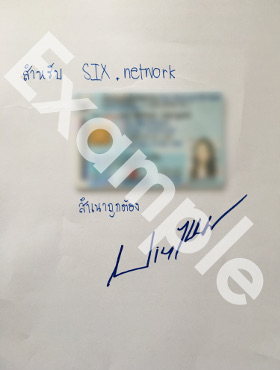
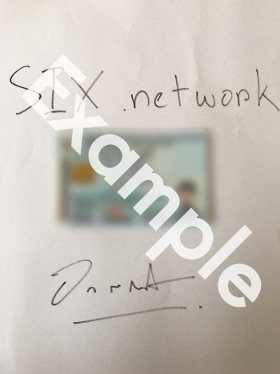
hotfix p bo photo and error style when signup and signin

diff --git a/public/javascripts/login.js b/public/javascripts/login.js
@@ -43,7 +43,9 @@ function setEnable (doms) {
 
 // Login function using in Login page to authorize user with email and password and also check verified status
 function login () {
-  $('#signInAlert').removeClass('show-alert')
+  if ($('#signInAlert').css('display') == 'block') {
+    $('#signInAlert').slideToggle()
+  }
   let emailDOM = document.getElementById('signInEmail')
   let passwordDOM = document.getElementById('signInPassword')
   let btnDOM = document.getElementById('signInBtn')
@@ -58,7 +60,9 @@ function login () {
       } else {
         $('#signInAlertText').html(err.message)
       }
-      $('#signInAlert').addClass('show-alert')
+      if ($('#signInAlert').css('display') == 'none') {
+        $('#signInAlert').slideToggle()
+      }
       setEnable([emailDOM, passwordDOM, btnDOM])
     })
 }
@@ -71,6 +75,17 @@ function lockSigninForm () {
   setDisable([emailDOM, passwordDOM, btnDOM])
 }
 
+function lockSignupForm () {
+  let emailDOM = document.getElementById('signUpEmail')
+  let firstNameDOM = document.getElementById('signUpFirstName')
+  let lastNameDOM = document.getElementById('signUpLastName')
+  let phoneNumberDOM = document.getElementById('signUpPhoneNumber')
+  let passwordDOM = document.getElementById('signUpPassword')
+  let countryDOM = document.getElementById('signUpCountry')
+  let btnDOM = document.getElementById('signUpBtn')
+  setDisable([emailDOM, firstNameDOM, lastNameDOM, phoneNumberDOM, passwordDOM, btnDOM, countryDOM])
+}
+
 // Unlock signin form after authorize using socialmedia
 function unlockSigninForm () {
   let emailDOM = document.getElementById('signInEmail')
@@ -79,9 +94,22 @@ function unlockSigninForm () {
   setEnable([emailDOM, passwordDOM, btnDOM])
 }
 
+function unlockSignupForm () {
+  let emailDOM = document.getElementById('signUpEmail')
+  let firstNameDOM = document.getElementById('signUpFirstName')
+  let lastNameDOM = document.getElementById('signUpLastName')
+  let phoneNumberDOM = document.getElementById('signUpPhoneNumber')
+  let passwordDOM = document.getElementById('signUpPassword')
+  let countryDOM = document.getElementById('signUpCountry')
+  let btnDOM = document.getElementById('signUpBtn')
+  setEnable([emailDOM, firstNameDOM, lastNameDOM, phoneNumberDOM, passwordDOM, btnDOM, countryDOM])
+}
+
 // Sign up function using in Login page to register user with email and password
 function signUp () {
-  $('#signUpAlert').removeClass('show-alert')
+  if ($('#signUpAlert').css('display') == 'block') {
+    $('#signUpAlert').slideToggle()
+  }
   let emailDOM = document.getElementById('signUpEmail')
   let firstNameDOM = document.getElementById('signUpFirstName')
   let lastNameDOM = document.getElementById('signUpLastName')
@@ -95,12 +123,14 @@ function signUp () {
   const phone_number_temp = phoneNumberDOM.value
   const password = passwordDOM.value
   const country = countryDOM.value
-  setDisable([emailDOM, firstNameDOM, lastNameDOM, phoneNumberDOM, passwordDOM, btnDOM, countryDOM])
+  lockSignupForm()
   const parseData = libphonenumber.parse(phone_number_temp, country, {extended: true })
   if (parseData.valid === false) {
     $('#signUpAlertText').html("Invalid phone number format")
-    $('#signUpAlert').addClass('show-alert')
-    setEnable([emailDOM, firstNameDOM, lastNameDOM, phoneNumberDOM, passwordDOM, btnDOM, countryDOM])
+    if ($('#signUpAlert').css('display') == 'none') {
+      $('#signUpAlert').slideToggle()
+    }
+    unlockSignupForm()
     return false
   }
   const phone_number = '+'+parseData.countryCallingCode+parseData.phone
@@ -126,8 +156,10 @@ function signUp () {
           stopRedirection = false
           console.log(err)
           $('#signUpAlertText').html(err.message)
-          $('#signUpAlert').addClass('show-alert')
-          setEnable([emailDOM, firstNameDOM, lastNameDOM, phoneNumberDOM, passwordDOM, btnDOM, countryDOM])
+          if ($('#signUpAlert').css('display') == 'none') {
+            $('#signUpAlert').slideToggle()
+          }
+          unlockSignupForm()
         })
     })
     .catch(err => {
@@ -135,14 +167,26 @@ function signUp () {
       stopRedirection = false
       console.log(err)
       $('#signUpAlertText').html(err.message)
-      $('#signUpAlert').addClass('show-alert')
-      setEnable([emailDOM, firstNameDOM, lastNameDOM, phoneNumberDOM, passwordDOM, btnDOM, countryDOM])
+      if ($('#signUpAlert').css('display') == 'none') {
+        $('#signUpAlert').slideToggle()
+      }
+      unlockSignupForm()
     })
 }
 
 // AuthFacebook function using in Login page for authorize user's facebook account
-function authFacebook () {
-  $('#signInAlert').removeClass('show-alert')
+function authFacebook() {
+  facebookLoginFunction($('#signInAlert'), $('#signInAlertText'), lockSigninForm, unlockSigninForm)
+}
+
+function authFacebookS() {
+  facebookLoginFunction($('#signUpAlert'), $('#signUpAlertText'), lockSignupForm, unlockSignupForm)
+}
+
+function facebookLoginFunction(alertObject, textObject, lockfunction, unlockfunction) {
+  if (alertObject.css('display') == 'block') {
+    alertObject.slideToggle()
+  }
   let provider = new firebase.auth.FacebookAuthProvider()
   provider.addScope('email')
   firebase.auth().languageCode = 'en_EN'
@@ -150,7 +194,7 @@ function authFacebook () {
     'display': 'popup'
   })
   stopRedirection = true
-  lockSigninForm()
+  lockfunction()
   return firebase.auth().signInWithPopup(provider)
     .then(res => {
       const {uid} = res.user
@@ -169,9 +213,11 @@ function authFacebook () {
               .catch((err) => {
                 firebase.auth().signOut()
                 stopRedirection = false
-                $('#signInAlertText').html(err.message)
-                $('#signInAlert').addClass('show-alert')
-                unlockSigninForm()
+                textObject.html(err.message)
+                if (alertObject.css('display') == 'none') {
+                  alertObject.slideToggle()
+                }
+                unlockfunction()
                 console.log('Authorize Facebook : error : ', err)
               })
           } else {
@@ -182,30 +228,44 @@ function authFacebook () {
         .catch((err) => {
           firebase.auth().signOut()
           stopRedirection = false
-          $('#signInAlertText').html(err.message)
-          $('#signInAlert').addClass('show-alert')
-          unlockSigninForm()
+          textObject.html(err.message)
+          if (alertObject.css('display') == 'none') {
+            alertObject.slideToggle()
+          }
+          unlockfunction()
           console.log('Authorize Facebook : error : ', err)
         })
     })
     .catch(err => {
       firebase.auth().signOut()
       stopRedirection = false
-      $('#signInAlertText').html(err.message)
-      $('#signInAlert').addClass('show-alert')
-      unlockSigninForm()
+      textObject.html(err.message)
+      if (alertObject.css('display') == 'none') {
+        alertObject.slideToggle()
+      }
+      unlockfunction()
       console.log('Authorize Facebook : error : ', err)
     })
 }
 
 // AuthGoogle function using in Login page for authorize user's google account
-function authGoogle () {
-  $('#signInAlert').removeClass('show-alert')
+function authGoogle() {
+  googleLoginFunction($('#signInAlert'), $('#signInAlertText'), lockSigninForm, unlockSigninForm)
+}
+
+function authGoogleS() {
+  googleLoginFunction($('#signUpAlert'), $('#signUpAlertText'), lockSignupForm, unlockSignupForm)
+}
+
+function googleLoginFunction(alertObject, textObject, lockfunction, unlockfunction) {
+  if (alertObject.css('display') == 'block') {
+    alertObject.slideToggle()
+  }
   let provider = new firebase.auth.GoogleAuthProvider()
   provider.addScope('email')
   firebase.auth().languageCode = 'en'
   stopRedirection = true
-  lockSigninForm()
+  lockfunction()
   return firebase.auth().signInWithPopup(provider)
     .then(res => {
       const {uid} = res.user
@@ -224,9 +284,11 @@ function authGoogle () {
               .catch((err) => {
                 firebase.auth().signOut()
                 stopRedirection = false
-                $('#signInAlertText').html(err.message)
-                $('#signInAlert').addClass('show-alert')
-                unlockSigninForm()
+                textObject.html(err.message)
+                if (alertObject.css('display') == 'none') {
+                  alertObject.slideToggle()
+                }
+                unlockfunction()
                 console.log('Authorize Google : error : ', err)
               })
           } else {
@@ -237,18 +299,22 @@ function authGoogle () {
         .catch((err) => {
           firebase.auth().signOut()
           stopRedirection = false
-          $('#signInAlertText').html(err.message)
-          $('#signInAlert').addClass('show-alert')
-          unlockSigninForm()
+          textObject.html(err.message)
+          if (alertObject.css('display') == 'none') {
+            alertObject.slideToggle()
+          }
+          unlockfunction()
           console.log('Authorize Google : error : ', err)
         })
     })
     .catch(err => {
       firebase.auth().signOut()
       stopRedirection = false
-      $('#signInAlertText').html(err.message)
-      $('#signInAlert').addClass('show-alert')
-      unlockSigninForm()
+      textObject.html(err.message)
+      if (alertObject.css('display') == 'none') {
+        alertObject.slideToggle()
+      }
+      unlockfunction()
       console.log('Authorize Google : error : ', err)
     })
 }

diff --git a/public/wizard.html b/public/wizard.html
@@ -697,7 +697,7 @@
                 </dd>
               </dl>
               <dl id='citizenIdPhotoBack'>
-                <dt><i class="animate-flicker fas fa-question-circle" style='cursor: pointer; color: #555555; font-size: 17px;' onclick='showSample1()'></i> &nbsp;&nbsp;Photo of the back side of ID card with signature and a paper with the word for "SIX.network"</dt>
+                <dt><i class="animate-flicker fas fa-question-circle" style='cursor: pointer; color: #555555; font-size: 17px;' onclick='showSample5()'></i> &nbsp;&nbsp;Photo of the back side of ID card with signature and a paper with the word for "SIX.network"</dt>
                 <dd>
                   <label class="file kycinput" id="kycPic5Alert">
                     <input type="file" id='kycPic5'>
@@ -750,7 +750,7 @@
               </dl>
               <dl>
                 <dt>
-                  <i class="animate-flicker fas fa-question-circle" style='cursor: pointer; color: #555555; font-size: 17px;' onclick='showSample3()'></i> &nbsp;&nbsp;Photo of you holding a <holding id='itemHoldingHead'>Passport</holding>
+                  <i id='idHelper' class="animate-flicker fas fa-question-circle" style='cursor: pointer; color: #555555; font-size: 17px; display: none;' onclick='showSample6()'></i><i id='passportHelper' class="animate-flicker fas fa-question-circle" style='cursor: pointer; color: #555555; font-size: 17px;' onclick='showSample3()'></i> &nbsp;&nbsp;Photo of you holding a <holding id='itemHoldingHead'>Passport</holding>
                   <span>A selfie of you holding your official <holding id='itemHolding'>passport showing the passport photo page</holding> and a paper with the word "for SIX.network on the date of registration"</span>
                 </dt>
                 <dd>

diff --git a/public/javascripts/wizard.js b/public/javascripts/wizard.js
@@ -206,6 +206,8 @@ function kycCountryChange() {
     $("#itemHolding").html("ID-card")
     $("#samplePassportSelfie").css('display', 'none')
     $("#sampleIDSelfie").css('display', 'block')
+    $("#idHelper").css('display', 'inline-block')
+    $("#passportHelper").css('display', 'none')
   } else {
     $("#citizenId").css("display", "none")
     $("#citizenIdPhoto").css("display", "none")
@@ -216,6 +218,8 @@ function kycCountryChange() {
     $("#itemHolding").html("passport showing the passport photo page")
     $("#samplePassportSelfie").css('display', 'block')
     $("#sampleIDSelfie").css('display', 'none')
+    $("#idHelper").css('display', 'none')
+    $("#passportHelper").css('display', 'inline-block')
   }
 }
 

diff --git a/public/login.html b/public/login.html
@@ -344,8 +344,8 @@
             </form>
             <ul class="list">
               <li><p>Sign up with</p></li>
-              <li><a href="javascript:;" onclick='authFacebook()'><i class="fab fa-facebook-f"></i></a></li>
-              <li><a href="javascript:;" onclick='authGoogle()'><i class="fab fa-google"></i></a></li>
+              <li><a href="javascript:;" onclick='authFacebookS()'><i class="fab fa-facebook-f"></i></a></li>
+              <li><a href="javascript:;" onclick='authGoogleS()'><i class="fab fa-google"></i></a></li>
             </ul>
           </div>
           <div class="forgot">

diff --git a/public/stylesheets/loading.css b/public/stylesheets/loading.css
@@ -158,3 +158,19 @@ main.login header .logo {
 #adminContainer {
   max-width: 1280px;
 }
+
+#signUpAlert {
+  height: auto;
+  display: none;
+  margin: 16px auto;
+  overflow: visible;
+  visibility: visible;
+}
+
+#signInAlert {
+  height: auto;
+  display: none;
+  margin: 16px auto;
+  overflow: visible;
+  visibility: visible;
+}
